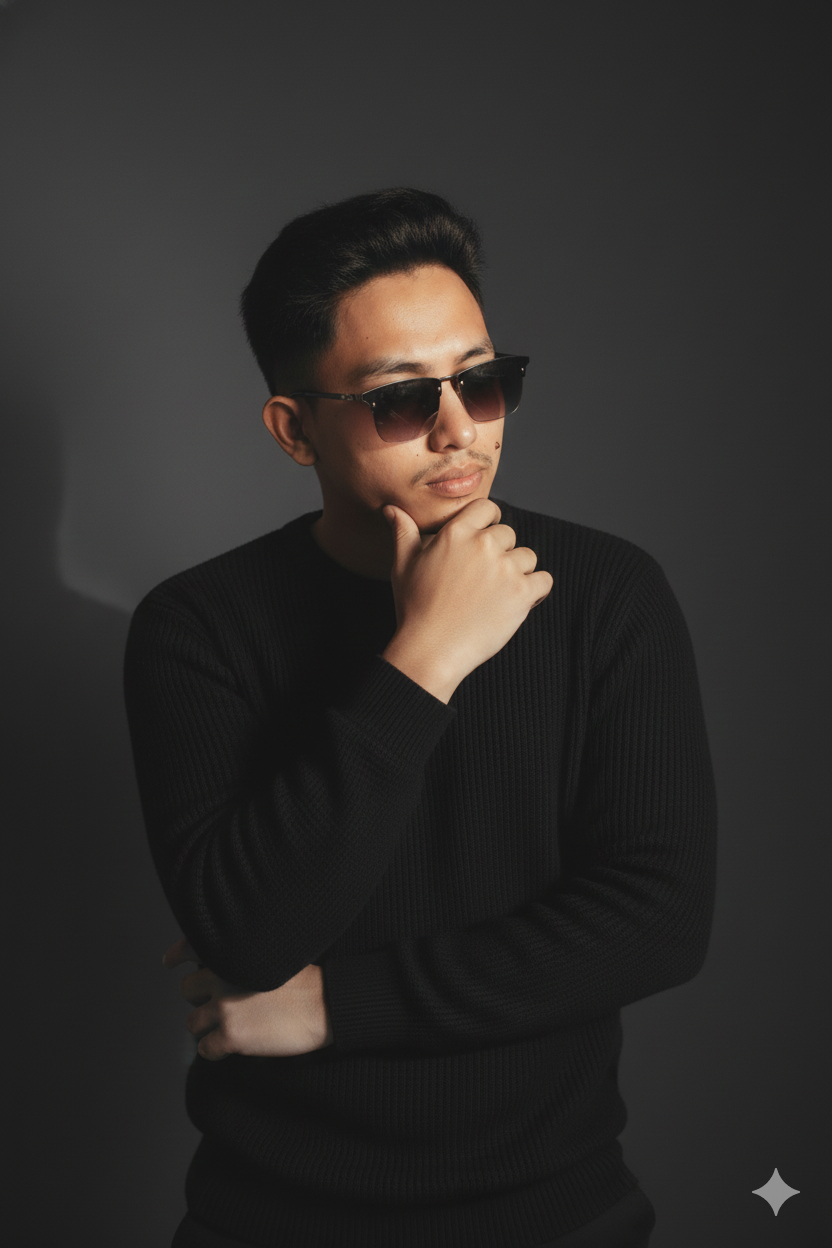
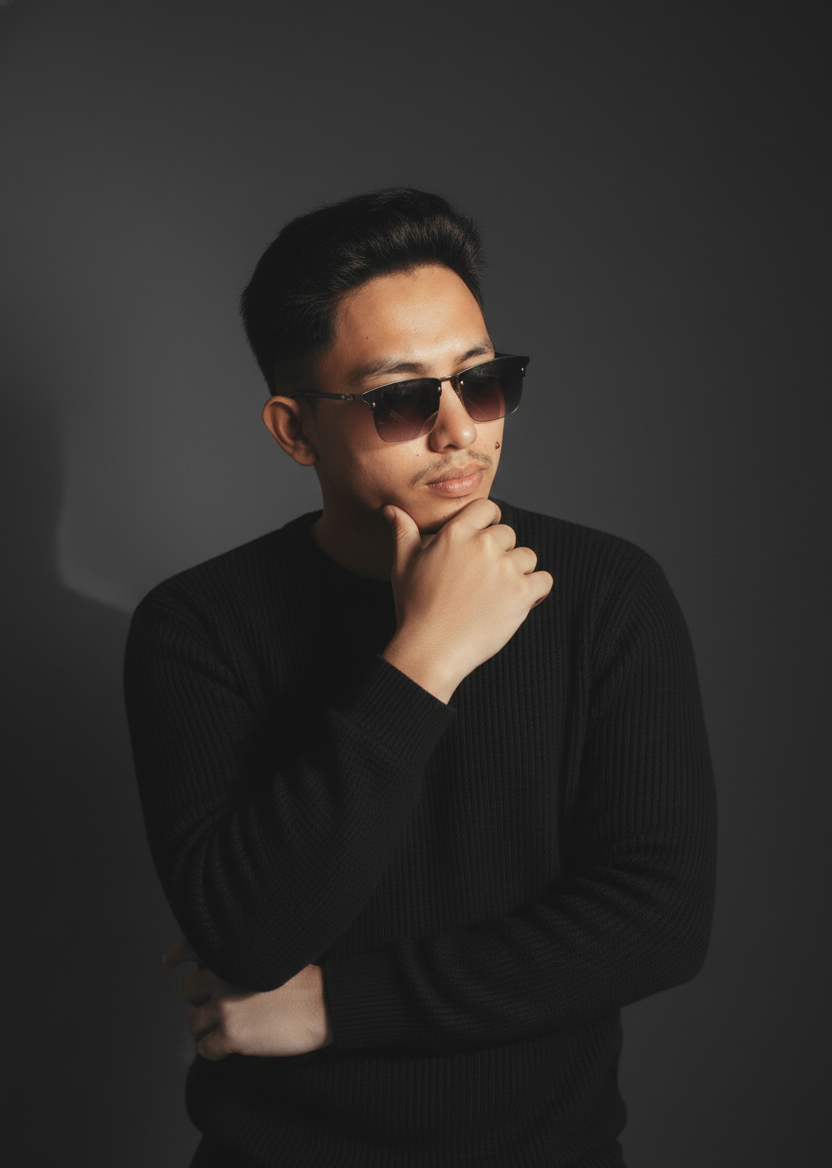
Update layout and styling across multiple components for improved consistency and responsiveness. Replace profile image in the About section, adjust margins in ProjectDetail, and enhance footer text. Integrate AOS and framer-motion for animations in various sections.

diff --git a/src/app/projects/[id]/page.tsx b/src/app/projects/[id]/page.tsx
@@ -30,9 +30,17 @@ const ProjectDetail = async ({ params }: ProjectDetailProps) => {
 
   return (
     <div className="min-h-screen py-20 bg-background">
+      {/* <motion.div
+        initial={{ opacity: 0, scale: 0 }}
+        whileInView={{ opacity: 0.1, scale: 1 }}
+        viewport={{ once: true }}
+        className="absolute top-10 right-50 pointer-events-none"
+      >
+        <Code2 className="w-32 h-32 text-primary" />
+      </motion.div> */}
       <div className="container mx-auto max-w-3xl px-4">
         {/* Header */}
-        <div className="mb-16">
+        <div className="mb-10">
           <h1 className="text-4xl md:text-5xl font-light mb-4 text-foreground tracking-tight">
             {project.title}
           </h1>
@@ -43,7 +51,7 @@ const ProjectDetail = async ({ params }: ProjectDetailProps) => {
 
         {/* Project Image */}
         {imageSrc && (
-          <div className="mb-16">
+          <div className="mb-10">
             <Image
               src={imageSrc}
               alt={project.title}
@@ -57,7 +65,7 @@ const ProjectDetail = async ({ params }: ProjectDetailProps) => {
         )}
 
         {/* Technologies */}
-        <div className="mb-16">
+        <div className="mb-10">
           <div className="flex flex-wrap gap-2">
             {project.technologies.map((tech) => (
               <Badge
@@ -73,7 +81,7 @@ const ProjectDetail = async ({ params }: ProjectDetailProps) => {
 
         {/* GitHub Link */}
         {project.githubUrl && (
-          <div className="mb-20">
+          <div className="mb-10">
             <Link
               href={project.githubUrl}
               target="_blank"
@@ -88,10 +96,10 @@ const ProjectDetail = async ({ params }: ProjectDetailProps) => {
         )}
 
         {/* Divider */}
-        <div className="border-t border-border/30 my-20" />
+        <div className="border-t border-border/30 my-10" />
 
         {/* Problem */}
-        <div className="mb-16">
+        <div className="mb-10">
           <h2 className="text-sm font-medium text-muted-foreground uppercase tracking-wider mb-6">
             Problem
           </h2>
@@ -101,10 +109,10 @@ const ProjectDetail = async ({ params }: ProjectDetailProps) => {
         </div>
 
         {/* Divider */}
-        <div className="border-t border-border/30 my-20" />
+        <div className="border-t border-border/30 my-10" />
 
         {/* Solution */}
-        <div className="mb-16">
+        <div className="mb-10">
           <h2 className="text-sm font-medium text-muted-foreground uppercase tracking-wider mb-6">
             Solution
           </h2>
@@ -114,10 +122,10 @@ const ProjectDetail = async ({ params }: ProjectDetailProps) => {
         </div>
 
         {/* Divider */}
-        <div className="border-t border-border/30 my-20" />
+        <div className="border-t border-border/30 my-10" />
 
         {/* Results */}
-        <div className="mb-16">
+        <div className="mb-10">
           <h2 className="text-sm font-medium text-muted-foreground uppercase tracking-wider mb-6">
             Results
           </h2>

diff --git a/src/components/sections/about-me.tsx b/src/components/sections/about-me.tsx
@@ -27,8 +27,16 @@ const About = () => {
   return (
     <section
       id="about"
-      className="py-24 bg-linear-to-r from-accent/5 to-primary/5"
+      className="py-24 bg-linear-to-r from-accent/5 to-primary/5 relative"
     >
+      <motion.div
+        initial={{ opacity: 0, scale: 0 }}
+        whileInView={{ opacity: 0.1, scale: 1 }}
+        viewport={{ once: true }}
+        className="absolute top-20 left-60 pointer-events-none"
+      >
+        <Code2 className="w-32 h-32 text-primary" />
+      </motion.div>
       <div className="container mx-auto px-6">
         <div className="max-w-6xl mx-auto">
           <div className="text-center mb-16">
@@ -40,20 +48,16 @@ const About = () => {
             </h2>
             <div className="w-20 h-1 bg-primary mx-auto" />
           </div>
-          <motion.div
-            initial={{ opacity: 0, scale: 0 }}
-            whileInView={{ opacity: 0.1, scale: 1 }}
-            viewport={{ once: true }}
-            className="absolute top-50 right-60 pointer-events-none hidden md:block z-10"
-          >
-            <Code2 className="w-32 h-32 text-primary" />
-          </motion.div>
 
           <div className="grid lg:grid-cols-2 gap-12 items-center">
             {/* Profile Image */}
-            <div className="relative group">
+            <div
+              className="relative group"
+              data-aos="fade-right"
+              data-aos-duration="1000"
+            >
               <Image
-                src="/me1.png"
+                src="/me2.png"
                 alt="Anthony"
                 width={400}
                 height={400}
@@ -63,7 +67,11 @@ const About = () => {
               />
             </div>
 
-            <div className="space-y-6">
+            <div
+              className="space-y-6"
+              data-aos="fade-left"
+              data-aos-duration="1000"
+            >
               <p className="text-muted-foreground text-lg leading-relaxed">
                 {portfolioData.about.description}
               </p>

diff --git a/src/components/project-card.tsx b/src/components/project-card.tsx
@@ -1,10 +1,11 @@
 "use client";
 
-import { Eye, Github } from "lucide-react";
+import { Code2, Eye, Github } from "lucide-react";
 import { Button } from "@/components/ui/button";
 import Image from "next/image";
 import { portfolioData } from "@/data/portfolio-data";
 import Link from "next/link";
+import { motion } from "framer-motion";
 
 const Projects = () => {
   const projects = portfolioData.projects;
@@ -12,7 +13,7 @@ const Projects = () => {
   return (
     <section
       id="projects"
-      className="py-24 bg-linear-to-r from-accent/5 to-primary/5 "
+      className="py-24 bg-linear-to-r from-accent/5 to-primary/5 relative"
     >
       <div className="container mx-auto px-6">
         <div className="max-w-6xl mx-auto">
@@ -25,12 +26,23 @@ const Projects = () => {
             </h2>
             <div className="w-20 h-1 bg-primary mx-auto" />
           </div>
+          <motion.div
+            initial={{ opacity: 0, scale: 0 }}
+            whileInView={{ opacity: 0.1, scale: 1 }}
+            viewport={{ once: true }}
+            className="absolute top-20 left-50 pointer-events-none"
+          >
+            <Code2 className="w-32 h-32 text-primary" />
+          </motion.div>
 
           <div className="grid md:grid-cols-2 lg:grid-cols-3 gap-8">
             {projects.map((project, index) => (
               <div
+                data-aos="fade-up"
+                data-aos-anchor-placement="top-bottom"
+                data-aos-duration="1000"
                 key={index}
-                className="group bg-card  rounded-md  border border-border overflow-hidden transition-all duration-500 hover:-translate-y-2"
+                className="group bg-card  rounded-md  border border-border overflow-hidden transition-all duration-1000 hover:-translate-y-2"
               >
                 {/* Image Container */}
                 <div className="relative overflow-hidden p-3">

diff --git a/src/components/sections/contact-section.tsx b/src/components/sections/contact-section.tsx
@@ -1,6 +1,7 @@
 "use client";
-import { Mail, Github, Linkedin, Twitter } from "lucide-react";
+import { Mail, Github, Linkedin, Twitter, Code2 } from "lucide-react";
 import { Button } from "@/components/ui/button";
+import { motion } from "framer-motion";
 
 const Contact = () => {
   const email = "anthonycrausus.dev@gmail.com";
@@ -18,10 +19,22 @@ const Contact = () => {
   return (
     <section
       id="contact"
-      className="py-24 bg-background min-h-screen flex items-center"
+      className="py-24 bg-background min-h-screen flex items-center relative"
     >
+      <motion.div
+        initial={{ opacity: 0, scale: 0 }}
+        whileInView={{ opacity: 0.1, scale: 1 }}
+        viewport={{ once: true }}
+        className="absolute top-10 right-50 pointer-events-none"
+      >
+        <Code2 className="w-32 h-32 text-primary" />
+      </motion.div>
       <div className="container mx-auto px-6">
-        <div className="max-w-2xl mx-auto text-center">
+        <div
+          data-aos="fade-up"
+          data-aos-duration="1000"
+          className="max-w-2xl mx-auto text-center"
+        >
           <p className="text-primary font-mono text-sm mb-2">Get In Touch</p>
           <h2 className="text-3xl md:text-4xl font-sans text-foreground mb-6">
             Let's Work Together

diff --git a/src/app/layout.tsx b/src/app/layout.tsx
@@ -6,8 +6,9 @@ import Footer from "@/components/footer";
 import { NavigationWrapper } from "@/components/navigation-wrapper";
 
 const inter = Inter({
-  variable: "--font-inter",
   subsets: ["latin"],
+  variable: "--font-inter",
+  display: "swap",
 });
 
 export const metadata = getSeoMetadata({});
@@ -50,14 +51,7 @@ export default function RootLayout({
             `,
           }}
         />
-        <link
-          href="https://fonts.googleapis.com/css2?family=Pixelify+Sans:wght@400..700&display=swap"
-          rel="stylesheet"
-        />
-        <link
-          href="https://fonts.googleapis.com/css2?family=BBH+Bartle&display=swap"
-          rel="stylesheet"
-        />
+        <link rel="stylesheet" href="https://unpkg.com/aos@next/dist/aos.css" />
       </head>
       <body className={`${inter.variable} antialiased overflow-x-hidden`}>
         <Providers>
@@ -65,6 +59,9 @@ export default function RootLayout({
           {children}
           <Footer />
         </Providers>
+
+        <script src="https://unpkg.com/aos@next/dist/aos.js"></script>
+        <script>AOS.init();</script>
       </body>
     </html>
   );

diff --git a/src/components/sections/skills-section.tsx b/src/components/sections/skills-section.tsx
@@ -8,7 +8,7 @@ import { motion } from "framer-motion";
 const Skills = () => {
   const skills = portfolioData.skills;
   return (
-    <section id="skills" className="py-24 ">
+    <section id="skills" className="py-24 relative">
       <div className="container mx-auto px-6">
         <div className="max-w-6xl mx-auto">
           <div className="text-center mb-16">
@@ -20,7 +20,6 @@ const Skills = () => {
             </h2>
             <div className="w-20 h-1 bg-primary mx-auto" />
           </div>
-
           <div className="absolute top-1/2 left-1/2 -translate-x-1/2 -translate-y-1/2 w-[600px] h-[600px] bg-primary/5 rounded-full blur-xl md:blur-3xl pointer-events-none" />
 
           {/* Floating icon */}
@@ -28,7 +27,7 @@ const Skills = () => {
             initial={{ opacity: 0, scale: 0 }}
             whileInView={{ opacity: 0.1, scale: 1 }}
             viewport={{ once: true }}
-            className="absolute top-10 right-10 pointer-events-none"
+            className="absolute top-10 right-50 pointer-events-none"
           >
             <Code2 className="w-32 h-32 text-primary" />
           </motion.div>

diff --git a/src/components/sections/hero-section.tsx b/src/components/sections/hero-section.tsx
@@ -68,16 +68,15 @@ export function HeroSection({ name, title, subtitle }: HeroSectionProps) {
       /> */}
 
       {/* Floating icon - Hidden on mobile for performance */}
-      {!isMobile && (
-        <motion.div
-          initial={{ opacity: 0, scale: 0 }}
-          whileInView={{ opacity: 0.1, scale: 1 }}
-          viewport={{ once: true }}
-          className="absolute top-50 right-60 pointer-events-none hidden md:block z-10"
-        >
-          <Code2 className="w-32 h-32 text-primary" />
-        </motion.div>
-      )}
+
+      <motion.div
+        initial={{ opacity: 0, scale: 0 }}
+        whileInView={{ opacity: 0.1, scale: 1 }}
+        viewport={{ once: true }}
+        className="absolute top-50 right-60 pointer-events-none hidden md:block z-10"
+      >
+        <Code2 className="w-32 h-32 text-primary" />
+      </motion.div>
 
       <div className="container mx-auto px-4 md:px-6 lg:px-8 text-center relative z-10">
         {/* Main Content */}

diff --git a/src/components/sections/about-section.tsx b/src/components/sections/about-section.tsx
@@ -36,14 +36,14 @@ export function AboutSection({ description, highlights }: AboutSectionProps) {
       <div className="absolute top-0 right-0 w-96 h-96 bg-primary/5 rounded-full blur-xl md:blur-3xl" />
 
       {/* Floating icon */}
-      <motion.div
+      {/* <motion.div
         initial={{ opacity: 0, scale: 0 }}
         whileInView={{ opacity: 0.1, scale: 1 }}
         viewport={{ once: true }}
         className="absolute top-10 left-10 pointer-events-none"
       >
         <Code2 className="w-32 h-32 text-primary" />
-      </motion.div>
+      </motion.div> */}
 
       <div className="max-w-4xl mx-auto relative z-10">
         {/* Icon and description */}

diff --git a/src/components/footer.tsx b/src/components/footer.tsx
@@ -8,10 +8,10 @@ const Footer = () => {
       <div className="container mx-auto px-6">
         <div className="flex flex-col md:flex-row items-center justify-between gap-4 max-w-6xl mx-auto">
           <p className="text-muted-foreground text-sm">
-            © {currentYear} Portfolio. All rights reserved.
+            © {currentYear} Anthony's | Portfolio. All rights reserved.
           </p>
           <p className="text-muted-foreground text-sm">
-            Designed & Built with <span className="text-primary">Next</span>
+            Designed & Built with <span className="">Next Js</span>
           </p>
         </div>
       </div>
